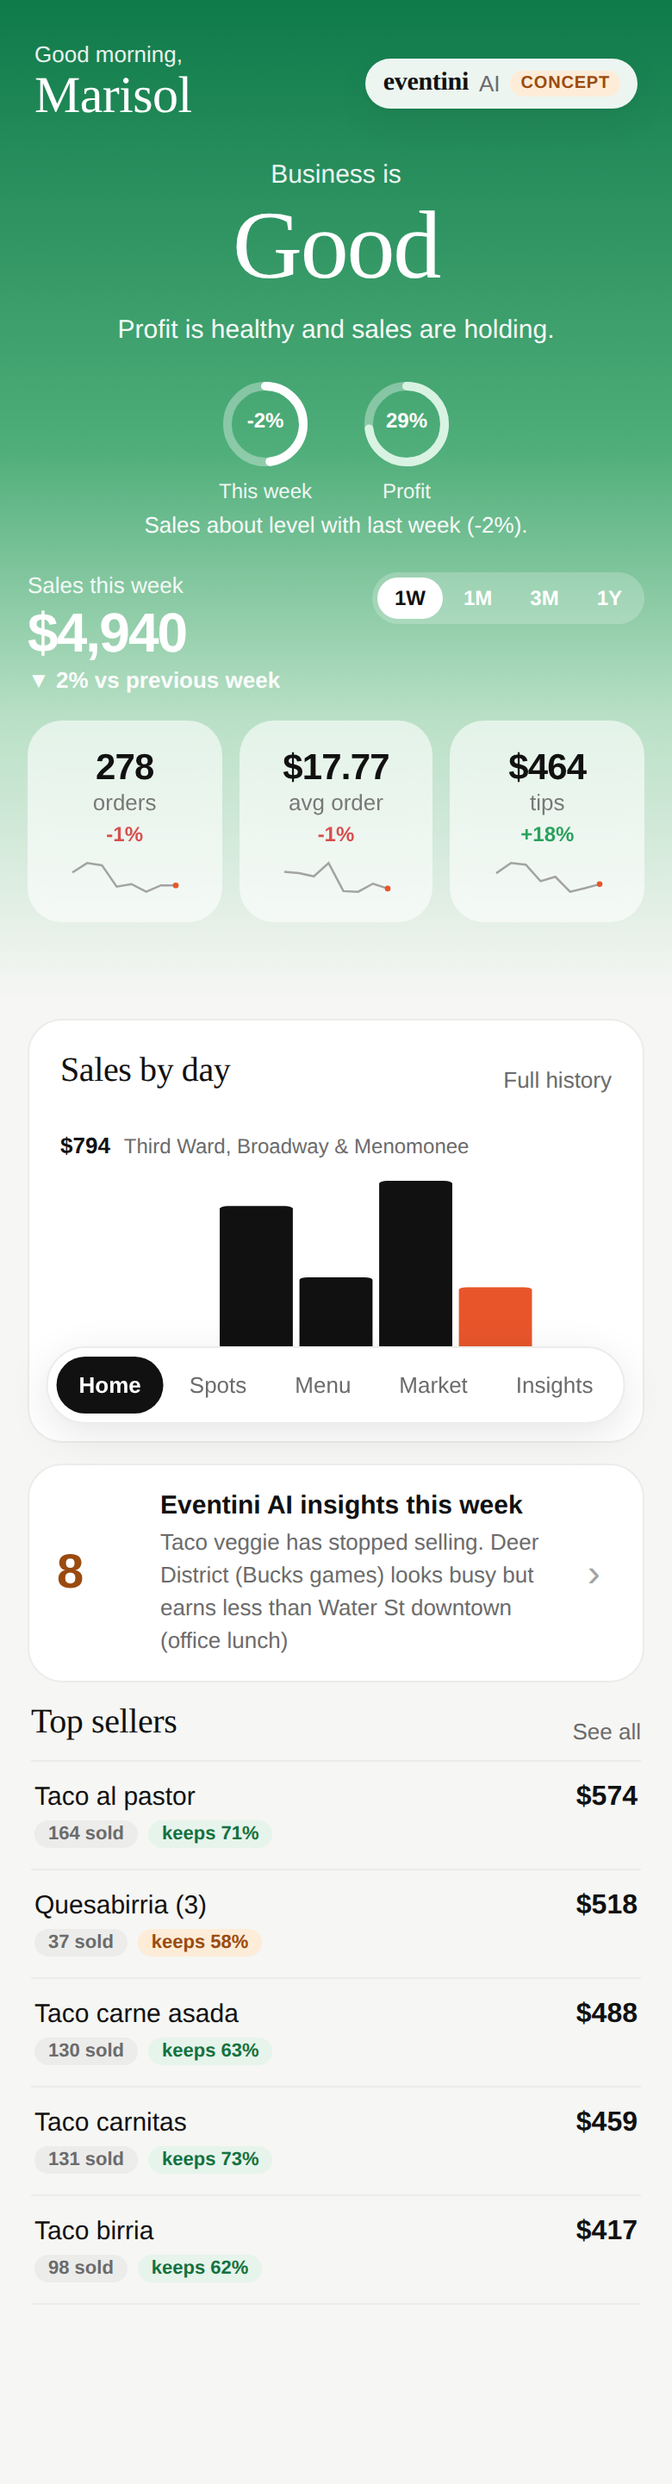
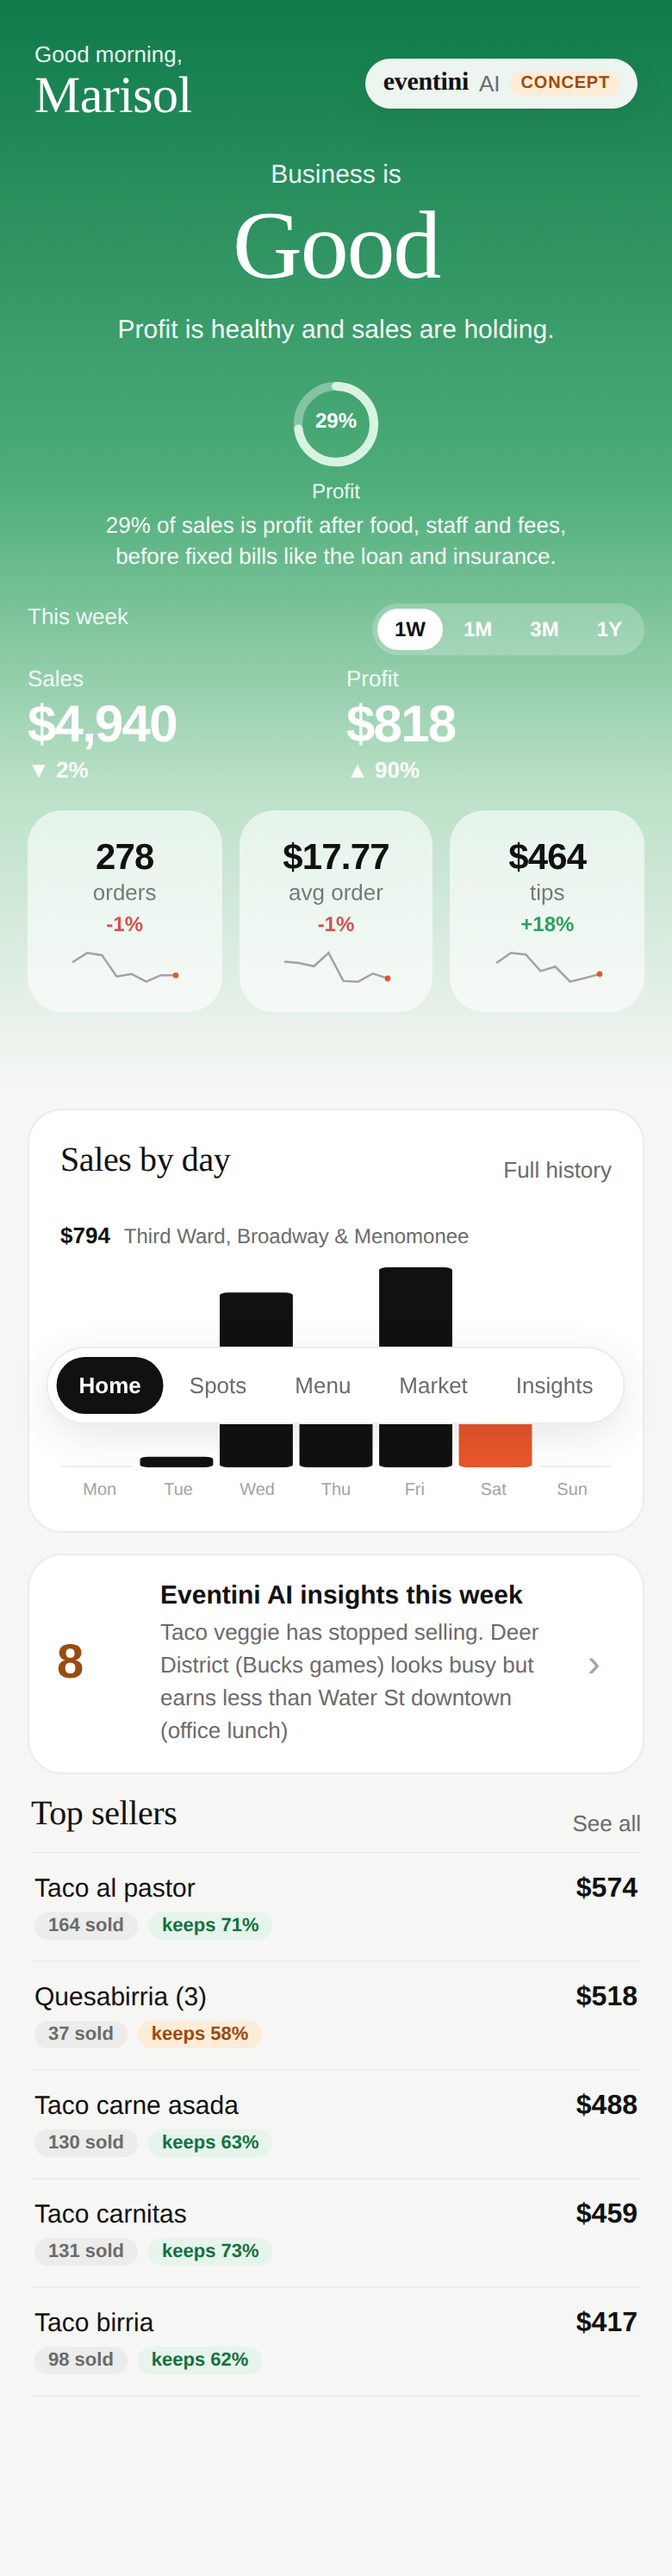
Profit on Home and a Money screen: the accountant's view
Home shows Sales and Profit side by side for the chosen range. Tapping
Profit (or the ring) opens /money: a plain statement for the period
(truck sales, catering, food, staff, fees, profit from trading, fixed
bills pro-rated by the day, what is yours), a 'not yours' card for sales
tax and tips, and profit by month with loss months in red. Bars now go
below a baseline for negative values.

Claude-Session: https://claude.ai/code/session_011kULvXi1EhLGoQfkcWDNEp

diff --git a/food-truck-app/src/screens/Money.tsx b/food-truck-app/src/screens/Money.tsx
@@ -1,0 +1,105 @@
+import { useState } from 'react'
+import { Link } from 'react-router-dom'
+import { Brand } from '../components/Brand'
+import { Bars, Card, Delta, Pills } from '../components/ui'
+import { RANGES, money, monthName, pct, pctChange, type RangeKey } from '../lib/data'
+import { months, statementFor } from '../lib/money'
+
+function Line({ label, value, sales, prev, sign = '', strong = false, muted = false }: {
+  label: string; value: number; sales: number; prev?: number; sign?: string; strong?: boolean; muted?: boolean
+}) {
+  const ch = prev !== undefined ? pctChange(value, prev) : null
+  return (
+    <li className={`stmt-line ${strong ? 'strong' : ''} ${muted ? 'muted' : ''}`}>
+      <span className="stmt-label">{label}</span>
+      <span className="stmt-share">{sales && !muted ? pct(value / sales, false) : ''}</span>
+      <span className="stmt-val">{sign}{money(Math.abs(value))}</span>
+      <span className={`stmt-ch ${ch === null ? '' : ch >= 0 ? 'up' : 'down'}`}>{ch === null ? '' : `${ch >= 0 ? '+' : ''}${Math.round(ch * 100)}%`}</span>
+    </li>
+  )
+}
+
+export default function Money() {
+  const [range, setRange] = useState<RangeKey>('1M')
+  const { now, prev } = statementFor(range)
+  const label = RANGES.find((r) => r.key === range)!.label
+  const ms = months()
+  const [showFixed, setShowFixed] = useState(false)
+
+  return (
+    <>
+      <section className="grad gold">
+        <header className="top">
+          <Link to="/" className="back">‹ Home</Link>
+          <Brand />
+        </header>
+        <div className="row hero-row">
+          <div>
+            <div className="label">Profit this {label}</div>
+            <div className="big">{now.profit < 0 ? '-' : ''}{money(Math.abs(now.profit))}</div>
+            <Delta value={pctChange(now.profit, prev.profit)} suffix={`vs previous ${label}`} />
+          </div>
+          <Pills value={range} onChange={setRange} />
+        </div>
+        <div className="label" style={{ marginTop: 10 }}>
+          {pct(now.sales ? now.profit / now.sales : 0, false)} of {money(now.sales)} sales, after every cost. {now.tradingDays} trading days.
+        </div>
+      </section>
+
+      <Card>
+        <h2>Where the money went</h2>
+        <ul className="stmt">
+          <Line label="Truck sales" value={now.truckSales} sales={now.sales} prev={prev.truckSales} />
+          {now.catering > 0 && <Line label="Catering" value={now.catering} sales={now.sales} prev={prev.catering} />}
+          <Line label="Food and packaging" value={now.food} sales={now.sales} prev={prev.food} sign="-" />
+          <Line label="Staff wages" value={now.staff} sales={now.sales} prev={prev.staff} sign="-" />
+          <Line label="Venue and card fees" value={now.fees} sales={now.sales} prev={prev.fees} sign="-" />
+          <Line label="Profit from trading" value={now.tradingProfit} sales={now.sales} prev={prev.tradingProfit} strong />
+          <li className="stmt-line clickable" onClick={() => setShowFixed(!showFixed)}>
+            <span className="stmt-label">Fixed bills {showFixed ? '▴' : '▾'}</span>
+            <span className="stmt-share">{pct(now.sales ? now.fixed / now.sales : 0, false)}</span>
+            <span className="stmt-val">-{money(now.fixed)}</span>
+            <span className="stmt-ch" />
+          </li>
+          {showFixed && now.fixedLines.map((f) => (
+            <li key={f.name} className="stmt-line sub">
+              <span className="stmt-label">{f.name}</span><span className="stmt-share" /><span className="stmt-val">-{money(f.amount)}</span><span className="stmt-ch" />
+            </li>
+          ))}
+          <Line label="Yours" value={now.profit} sales={now.sales} prev={prev.profit} strong sign={now.profit < 0 ? '-' : ''} />
+        </ul>
+        <p className="note">Fixed bills are spread evenly across the days of each month.</p>
+      </Card>
+
+      <Card>
+        <h2>Not yours</h2>
+        <ul className="stmt">
+          <Line label="Sales tax collected" value={now.tax} sales={now.sales} muted />
+          <Line label="Tips" value={now.tips} sales={now.sales} muted />
+        </ul>
+        <p className="note">Sales tax (7.9%) belongs to the state and county; set it aside. Tips go to the people who worked.</p>
+      </Card>
+
+      <Card>
+        <h2>Profit by month</h2>
+        <Bars
+          bars={ms.slice().reverse().map((m) => ({ label: monthName(m.month), value: m.operating_profit, sub: monthName(m.month, true) }))}
+          height={120}
+          format={(v) => `${v < 0 ? '-' : ''}${money(Math.abs(v))}`}
+        />
+        <ul className="log">
+          {ms.map((m) => (
+            <li key={m.month}>
+              <span className="name">{monthName(m.month, true)} <small className="muted">{m.trading_days} days</small></span>
+              <span className={`val ${m.operating_profit < 0 ? 'down' : ''}`}>{m.operating_profit < 0 ? '-' : ''}{money(Math.abs(m.operating_profit))}</span>
+              <span className="pills-sm">
+                <span className="pill grey">{money(m.total_sales)} sales</span>
+                <span className={`pill ${m.operating_profit >= 0 ? 'green' : 'amber'}`}>{m.operating_profit >= 0 ? 'profit' : 'loss'}</span>
+              </span>
+            </li>
+          ))}
+        </ul>
+      </Card>
+    </>
+  )
+}

diff --git a/food-truck-app/src/screens/Home.tsx b/food-truck-app/src/screens/Home.tsx
@@ -5,6 +5,7 @@ import { METRIC_LABEL, RANGES, buckets, data, daysBetween, formatMetric, itemTot
 import { health } from '../lib/health'
 import { weeklyInsights } from '../lib/insights'
 import { stockAlerts } from '../lib/stock'
+import { statementFor } from '../lib/money'
 import { Brand } from '../components/Brand'
 
 const toneOf = (score: number): 'good' | 'info' | 'warn' => (score > 0 ? 'good' : score < 0 ? 'warn' : 'info')
@@ -20,8 +21,9 @@ export default function Home({ range, setRange }: { range: RangeKey; setRange: (
   const tips = weeklyInsights()
   const stock = stockAlerts()
   const h = health()
-  const [why, setWhy] = useState<string | null>('Profit')
+  const [why] = useState<string | null>('Profit')
   const navigate = useNavigate()
+  const st = statementFor(range)
   const metric: Metric = 'sales'
   const pick = (m: Metric) => navigate(`/history/${m}`)
 
@@ -45,7 +47,7 @@ export default function Home({ range, setRange }: { range: RangeKey; setRange: (
 
         <div className="rings">
           {h.checks.filter((c) => c.label === 'Profit').map((c) => (
-            <button key={c.label} className="ring-btn" onClick={() => setWhy(c.label)} aria-pressed={why === c.label}>
+            <button key={c.label} className="ring-btn" onClick={() => navigate('/money')} aria-pressed={why === c.label}>
               <Ring fill={c.fill} tone={toneOf(c.score)} text={c.value} label={c.label} />
             </button>
           ))}
@@ -53,12 +55,20 @@ export default function Home({ range, setRange }: { range: RangeKey; setRange: (
         {why && <div className="ring-detail">{h.checks.find((c) => c.label === why)?.detail}</div>}
 
         <div className="row hero-row">
-          <div onClick={() => pick('sales')} role="link" style={{ cursor: 'pointer' }}>
-            <div className="label">Sales this {label}</div>
-            <div className="mid">{money(now.gross)}</div>
-            <Delta value={pctChange(now.gross, prev.gross)} suffix={`vs previous ${label}`} />
-          </div>
+          <div className="label">This {label}</div>
           <Pills value={range} onChange={setRange} />
+        </div>
+        <div className="two">
+          <div onClick={() => pick('sales')} role="link" style={{ cursor: 'pointer' }}>
+            <div className="label">Sales</div>
+            <div className="mid">{money(now.gross)}</div>
+            <Delta value={pctChange(now.gross, prev.gross)} suffix="" />
+          </div>
+          <div onClick={() => navigate('/money')} role="link" style={{ cursor: 'pointer' }}>
+            <div className="label">Profit</div>
+            <div className="mid">{st.now.profit < 0 ? '-' : ''}{money(Math.abs(st.now.profit))}</div>
+            <Delta value={pctChange(st.now.profit, st.prev.profit)} suffix="" />
+          </div>
         </div>
 
         <div className="tiles">

diff --git a/food-truck-app/src/lib/money.ts b/food-truck-app/src/lib/money.ts
@@ -1,0 +1,65 @@
+// The accountant's view: a plain statement for any period.
+// Sales less food, staff and fees is profit from trading; less the fixed
+// bills (pro-rated by the day) is what is actually the owner's.
+import { TODAY, addDays, data, daysBetween, rangeWindow, type RangeKey } from './data'
+
+export type Statement = {
+  from: string; to: string; days: number; tradingDays: number
+  truckSales: number; catering: number; sales: number
+  food: number; staff: number; fees: number; tradingProfit: number
+  fixed: number; fixedLines: { name: string; amount: number }[]
+  profit: number
+  tax: number; tips: number
+}
+
+function daysInMonth(ym: string): number {
+  const y = Number(ym.slice(0, 4)), m = Number(ym.slice(5, 7))
+  return new Date(Date.UTC(y, m, 0)).getUTCDate()
+}
+
+export function statement(from: string, to: string): Statement {
+  const ds = daysBetween(from, to)
+  const s: Statement = { from, to, days: ds.length, tradingDays: 0, truckSales: 0, catering: 0, sales: 0, food: 0, staff: 0, fees: 0,
+    tradingProfit: 0, fixed: 0, fixedLines: [], profit: 0, tax: 0, tips: 0 }
+  for (const d of ds) {
+    if (!d.trading) continue
+    s.tradingDays += 1
+    s.truckSales += d.gross_sales ?? 0
+    s.food += d.cogs ?? 0
+    s.staff += d.labour ?? 0
+    s.fees += (d.processing_fees ?? 0) + (d.location_fee ?? 0)
+    s.tax += d.tax_collected ?? 0
+    s.tips += d.tips ?? 0
+  }
+  for (const c of data.catering) {
+    if (c.date < from || c.date > to) continue
+    s.catering += c.revenue
+    s.food += c.food_cost
+    s.staff += c.staff_cost
+  }
+  // Fixed bills: each day carries its month's bills divided by the days in that month.
+  const byName = new Map<string, number>()
+  for (const d of ds) {
+    const ym = d.date.slice(0, 7)
+    const dim = daysInMonth(ym)
+    for (const f of data.fixedCosts) if (f.month === ym) byName.set(f.cost, (byName.get(f.cost) ?? 0) + f.amount / dim)
+  }
+  s.fixedLines = [...byName.entries()].map(([name, amount]) => ({ name, amount })).sort((a, b) => b.amount - a.amount)
+  s.fixed = s.fixedLines.reduce((a, l) => a + l.amount, 0)
+  s.sales = s.truckSales + s.catering
+  s.tradingProfit = s.sales - s.food - s.staff - s.fees
+  s.profit = s.tradingProfit - s.fixed
+  return s
+}
+
+export function statementFor(range: RangeKey, end = TODAY): { now: Statement; prev: Statement } {
+  const w = rangeWindow(range, end)
+  return { now: statement(w.from, w.to), prev: statement(w.prevFrom, w.prevTo) }
+}
+
+/** Calendar months in the data, newest first, from the Monthly_PnL tab. */
+export function months() {
+  return [...data.monthly].reverse()
+}
+
+export const weekStart = (end = TODAY) => addDays(end, -6)

diff --git a/food-truck-app/src/components/ui.tsx b/food-truck-app/src/components/ui.tsx
@@ -62,6 +62,8 @@ export function Bars({ bars, height = 120, highlightLast = true, format = (v: nu
 }) {
   const [sel, setSel] = useState<number | null>(null)
   const max = Math.max(1, ...bars.map((b) => b.value))
+  const min = Math.min(0, ...bars.map((b) => b.value))
+  const span = max - min || 1
   const n = bars.length
   const W = 100
   const gap = n > 20 ? 0.6 : 1.2
@@ -81,16 +83,19 @@ export function Bars({ bars, height = 120, highlightLast = true, format = (v: nu
       )}
       <svg viewBox={`0 0 ${W} ${height}`} preserveAspectRatio="none" width="100%" height={height} onMouseLeave={() => setSel(null)}>
         {bars.map((b, i) => {
-          const h = Math.max(b.value > 0 ? 2 : 1, (b.value / max) * (height - 4))
+          const base = height - 2 - ((0 - min) / span) * (height - 4)
+          const h = Math.max(b.value === 0 ? 1 : 2, (Math.abs(b.value) / span) * (height - 4))
+          const y = b.value >= 0 ? base - h : base
           const x = i * (bw + gap)
-          const cls = i === active ? 'bar on' : b.value === 0 ? 'bar zero' : 'bar'
+          const cls = i === active ? 'bar on' : b.value === 0 ? 'bar zero' : b.value < 0 ? 'bar neg' : 'bar'
           return (
             <g key={i} onClick={() => setSel(i === sel ? null : i)} onMouseEnter={() => setSel(i)}>
               <rect x={x} y={0} width={bw} height={height} fill="transparent" />
-              <rect className={cls} x={x} y={height - h} width={bw} height={h} rx={Math.min(1.5, bw / 2)} />
+              <rect className={cls} x={x} y={y} width={bw} height={h} rx={Math.min(1.5, bw / 2)} />
             </g>
           )
         })}
+        {min < 0 && <line x1={0} x2={W} y1={height - 2 - ((0 - min) / span) * (height - 4)} y2={height - 2 - ((0 - min) / span) * (height - 4)} className="baseline" />}
       </svg>
       <div className="bars-x">
         {bars.map((b, i) => (

diff --git a/food-truck-app/src/app.css b/food-truck-app/src/app.css
@@ -292,3 +292,26 @@ button.tile { font: inherit; border: 0; cursor: pointer; text-align: center; }
 .line { display: grid; grid-template-columns: 48px 1fr 16px; gap: 12px; align-items: center; padding: 14px 16px; }
 .line .fig { font-size: 28px; }
 .line .chev { color: var(--ink-3); font-size: 22px; }
+
+/* sales + profit side by side */
+.two { display: grid; grid-template-columns: 1fr 1fr; gap: 12px; margin-top: 6px; }
+.two .mid { font-size: 30px; }
+
+/* statement */
+.stmt { list-style: none; margin: 0; padding: 0; }
+.stmt-line { display: grid; grid-template-columns: 1fr 44px 86px 48px; gap: 8px; align-items: baseline; padding: 9px 0; border-top: 1px solid var(--line); font-size: 14px; }
+.stmt-line:first-child { border-top: 0; }
+.stmt-line.strong { font-weight: 700; }
+.stmt-line.strong .stmt-val { font-size: 16px; }
+.stmt-line.sub { font-size: 13px; color: var(--ink-2); padding: 5px 0 5px 14px; border-top: 0; }
+.stmt-line.muted .stmt-val, .stmt-line.muted .stmt-label { color: var(--ink-2); }
+.stmt-line.clickable { cursor: pointer; }
+.stmt-share { font-size: 12px; color: var(--ink-3); text-align: right; font-variant-numeric: tabular-nums; }
+.stmt-val { text-align: right; font-variant-numeric: tabular-nums; }
+.stmt-ch { font-size: 12px; text-align: right; font-variant-numeric: tabular-nums; color: var(--ink-3); }
+.stmt-ch.up { color: var(--good); }
+.stmt-ch.down { color: var(--bad); }
+.log .val.down { color: var(--bad); }
+
+.bar.neg { fill: var(--bad); opacity: 0.85; }
+.baseline { stroke: var(--line); stroke-width: 0.5; }

diff --git a/food-truck-app/src/lib/data.ts b/food-truck-app/src/lib/data.ts
@@ -49,6 +49,9 @@ export type Monthly = {
   fixed_costs: number; operating_profit: number; food_cost_pct: number; labour_pct: number
 }
 
+export type Catering = { booking_id: string; date: string; type: string; heads: number; price_per_head: number; revenue: number; food_cost: number; staff_cost: number; source: string }
+export type FixedCost = { month: string; cost: string; amount: number; scaled_by_activity: boolean }
+
 type Data = {
   meta: { generated: string; start: string; end: string; fake: boolean; planted_stories: string[] }
   truck: { name: string; owner: string; concept: string; pos: string }
@@ -62,6 +65,8 @@ type Data = {
   hourly: Hourly[]
   itemDays: ItemDay[]
   monthly: Monthly[]
+  catering: Catering[]
+  fixedCosts: FixedCost[]
 }
 
 export const data = raw as unknown as Data

diff --git a/food-truck-app/src/App.tsx b/food-truck-app/src/App.tsx
@@ -8,6 +8,7 @@ import Menu from './screens/Menu'
 import Spots from './screens/Spots'
 import Insights from './screens/Insights'
 import History from './screens/History'
+import Money from './screens/Money'
 import './app.css'
 
 export default function App() {
@@ -24,6 +25,7 @@ export default function App() {
           <Route path="/insights" element={<Insights />} />
           <Route path="/tips" element={<Insights />} />
           <Route path="/history/:metric" element={<History />} />
+          <Route path="/money" element={<Money />} />
         </Routes>
         <Nav />
       </main>
